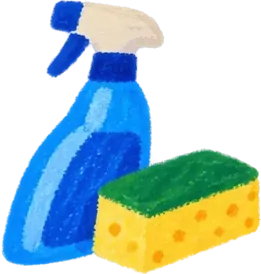
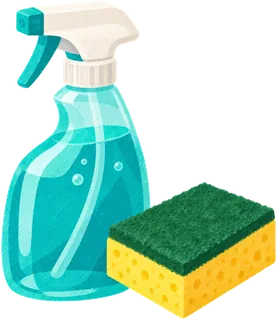
Aisle art: all 27 aisles get their own picture (sources in design/rayons/, webp in public/illustrations/rayons/, sizes in data/aisles.json); old 4×4 sheet design/rayons-planche.webp and the 5 shared webp removed
The 27 ChatGPT pictures (white background, removed by npm run aisle-art) are
kept as webp sources in design/rayons/, which also replace the 5 earlier ones.
DESIGN.md, docs/data-model.md and design/prompts-rayons.md no longer mention
borrowed pictures or the old sheet.

diff --git a/DESIGN.md b/DESIGN.md
@@ -346,7 +346,7 @@ Each aisle has a pastel background (section header) and a dot (navigation):
 | Maison & loisirs | #E4E4EC | #7D7F99 |
 | Autres | #EAE5DE | #A39A8E |
 
-The list, order, labels and illustrations of the aisles live in `data/aisles.json`; the tokens are `--kd-aisle-{id}` and `--kd-aisle-{id}-dot`. Each aisle has an object illustration (crayon + gouache, matte, transparent background, no scribble or shadow behind it, so it sits cleanly on the aisle colour), one picture per aisle. The generation prompts (one shared style block, one subject per aisle) are in `design/prompts-rayons.md`; each result goes to `design/rayons/{id}.webp` (or `.png`), and `npm run aisle-art` crops it, removes a white background if needed and writes `public/illustrations/rayons/{id}.webp` and its size in `data/aisles.json`. Until then, the aisles created by the split into 27 aisles (October 2026) borrow the closest picture of the old 4×4 sheet `design/rayons-planche.webp` (Poissonnerie the one of Viandes & volailles, Fromages the dairy one…).
+The list, order, labels and illustrations of the aisles live in `data/aisles.json`; the tokens are `--kd-aisle-{id}` and `--kd-aisle-{id}-dot`. Each aisle has an object illustration (crayon + gouache, matte, transparent background, no scribble or shadow behind it, so it sits cleanly on the aisle colour), one picture per aisle. The generation prompts (one shared style block, one subject per aisle) are in `design/prompts-rayons.md`; each result goes to `design/rayons/{id}.webp` (or `.png`), and `npm run aisle-art` crops it, removes a white background if needed and writes `public/illustrations/rayons/{id}.webp` and its size in `data/aisles.json`. Since October 2026 every one of the 27 aisles has its own picture (the old 4×4 sheet of 14 pictures is gone).
 
 The same pastels are reused for recipe-card backgrounds and the summary tiles. The Menu food-group dots reuse the aisle dots (vegetables #5A9868, starches #F2C94C, meat & fish #F87A56, dairy #E6CFA0), plus fruit #F49AC1.
 

diff --git a/docs/data-model.md b/docs/data-model.md
@@ -12,7 +12,7 @@
 - If more households join later, nothing changes: the same database, one more document per household.
 
 ## Aisles
-`data/aisles.json` is the single source for the 27 aisles: `id` (the `AisleId` stored everywhere), French `label`, `illustration` (`{ src, width, height }`, made from `design/rayons/{id}.webp` (or `.png`) by `npm run aisle-art`; until an aisle has its own picture, it borrows the one of a neighbouring aisle). The picture also illustrates the recipes whose first ingredient is in that aisle. Its order is the default `aisleOrder` of a new household. Colours: `--kd-aisle-{id}` / `--kd-aisle-{id}-dot` in `styles/tokens.css`.
+`data/aisles.json` is the single source for the 27 aisles: `id` (the `AisleId` stored everywhere), French `label`, `illustration` (`{ src, width, height }`, made from `design/rayons/{id}.webp` (or `.png`) by `npm run aisle-art`). The picture also illustrates the recipes whose first ingredient is in that aisle. Its order is the default `aisleOrder` of a new household. Colours: `--kd-aisle-{id}` / `--kd-aisle-{id}-dot` in `styles/tokens.css`.
 
 **Changing aisle ids.** An `aisleId` is stored in `catalog/`, in `households/{hid}.aisleOrder`, in `ingredients/{key}` and in the `extras`. When an aisle is renamed or split: reseed the catalogue (`scripts/seed-catalog.mjs`), then run a migration over the households (the October 2026 split into 27 aisles: `scripts/migrate-aisles.mjs`, `--dry` first), and rename `FETCHED_AT` in `src/lib/catalog.ts` so phones drop their day-old copy of the catalogue. Until then the app treats an id it no longer knows as "Ingrédients à classer" (`knownAisle` in `src/lib/aisles.ts`).
 

diff --git a/design/prompts-rayons.md b/design/prompts-rayons.md
@@ -1,6 +1,6 @@
 # Aisle illustration prompts
 
-One picture per aisle, 27 in all, in the original crayon + gouache style (see `DESIGN.md`, section Aisles). They replace the old 4×4 sheet `design/rayons-planche.webp`, whose 14 pictures cannot cover the 27 aisles of `data/aisles.json`.
+One picture per aisle, 27 in all, in the original crayon + gouache style (see `DESIGN.md`, section Aisles). They replaced the old 4×4 sheet of 14 pictures, which could not cover the 27 aisles of `data/aisles.json`.
 
 The pictures are shown small: 64 × 56 px in Mon Kaddy, 40 × 38 px in Ordre des rayons, and larger in the page headers and the Menu summary. Each one sits on its aisle's pastel (`--kd-aisle-{id}`), so every subject below is chosen to stand out against that colour and to look different from the neighbouring aisles.
 
